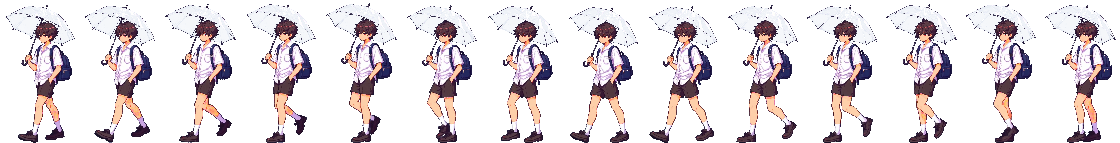
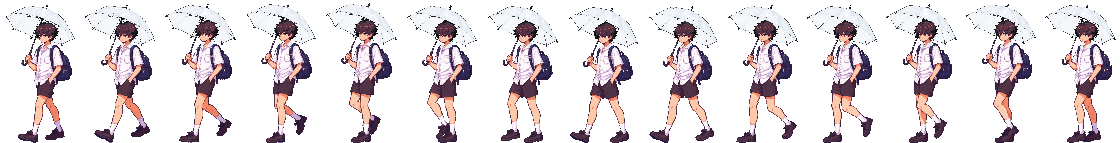
Umbrella sprites: every material matched, not just skin
match_materials replaces match_skin: the reference's colours are split into
10 groups, each with a dark-to-light ramp; a pixel belongs softly to nearby
groups and takes the ramp colour at its brightness rank, so shirt, shading,
bag, shorts and skin all match between standing and walking without
blotches. The umbrella is left out of it (plastic colour; solid ribs, rim and
shaft above the collar become cool grey by their brightness).

Claude-Session: https://claude.ai/code/session_011NAKRUA9btL4iodwTEM3Dh

diff --git a/tools/import_char_video.py b/tools/import_char_video.py
@@ -64,15 +64,15 @@ def unmix(rgb, mask, bg, plastic, rows):
     v = rgb - bg
     a = (v @ u) / (u @ u)
     resid = np.sqrt(((v - a[..., None] * u) ** 2).sum(2))
-    glass = mask & (resid < 45) & (a > 0.06) & (a < 0.92)   # between the background and the plastic
-                                                             # (darker than the background = hair, not plastic)
-    glass[rows:] = False
+    prop = mask & (resid < 45) & (a > 0.06)       # between the background and the plastic
+    prop[rows:] = False                           # (darker than the background = hair, not plastic)
+    glass = prop & (a < 0.92)                     # see-through; the rest of the prop: solid ribs, rim
     a = np.clip(a, 0.15, 1.0)
     # one even colour for the plastic (the unmixed colours wander a little); its shape
     # and the brighter ribs and edges are carried by the alpha
-    out = np.where(glass[..., None], plastic, rgb)
+    out = np.where(prop[..., None], plastic, rgb)
     alpha = np.where(glass, a * 255, np.where(mask, 255.0, 0.0))
-    return out, alpha
+    return out, alpha, prop
 
 
 def materials(px):
@@ -91,34 +91,66 @@ def materials(px):
     }
 
 
-def skin_weight(px):
-    """0..1: how much a colour is skin or skin in shadow (warm orange, fairly saturated)."""
-    rgb = px / 255.0
-    mx, mn = rgb.max(-1), rgb.min(-1)
-    sat = (mx - mn) / np.maximum(mx, 1e-6)
-    r, g, b = rgb[..., 0], rgb[..., 1], rgb[..., 2]
-    warm = np.clip((r - g) / np.maximum(mx - mn, 1e-6), 0, 1) * (r >= b)    # hue near orange
-    return (np.clip((sat - 0.2) / 0.15, 0, 1) * np.clip((mx - 0.35) / 0.15, 0, 1)
-            * np.clip(warm * 1.5 - 0.2, 0, 1) * (g >= b - 0.02))
+def kmeans_rgb(px, k, iters=30, seed=3):
+    rng = np.random.default_rng(seed)
+    c = px[rng.choice(len(px), k, replace=False)].astype(float)
+    for _ in range(iters):
+        lab = ((px[:, None] - c[None]) ** 2).sum(2).argmin(1)
+        for j in range(k):
+            if (lab == j).any():
+                c[j] = px[lab == j].mean(0)
+    return c
 
 
-def match_skin(frames, solid, ref_px):
-    """Skin and its shading: per channel, map the frames' spread of skin tones (light to
-    shadow) onto the reference's with a smooth curve (matched percentiles), blended in by
-    how skin-like each pixel is, so nothing changes abruptly at the edge of the skin."""
+def match_materials(frames, solid, ref_px, k=10, sigma=28.0):
+    """Light-to-shadow range of every material, matched to the reference sprite.
+
+    The reference's colours are split into k groups (skin light/shadow, hair, shirt,
+    shirt shading, bag, shorts...). Each group gets a ramp: its colour as a function of
+    how bright a pixel is within the group (dark end -> light end). A frame pixel belongs
+    softly to the groups near its colour; within each it takes the ramp colour at the
+    same brightness rank its frame group has. The result depends smoothly on the input
+    colour (similar colours stay similar), so the shading keeps its shape: no blotches."""
+    lum_w = np.array((0.299, 0.587, 0.114))
+    centres = kmeans_rgb(ref_px, k)
+    ref_lab = ((ref_px[:, None] - centres[None]) ** 2).sum(2).argmin(1)
+    q = np.linspace(0, 1, 33)
+    ramps = []
+    for j in range(k):
+        v = ref_px[ref_lab == j]
+        order = np.argsort(v @ lum_w)
+        idx = np.clip((q * (len(v) - 1)).round().astype(int), 0, len(v) - 1)
+        ramp = v[order][idx].astype(float)
+        ramp = np.array([ramp[max(0, i - 2):i + 3].mean(0) for i in range(len(q))])   # smooth
+        ramps.append(ramp)
     src = np.concatenate([f[..., :3][m] for f, m in zip(frames, solid)]).astype(float)
-    ws, wr = skin_weight(src) > 0.6, skin_weight(ref_px) > 0.6
-    q = np.linspace(2, 98, 25)
-    curves = [(np.percentile(src[ws, c], q), np.percentile(ref_px[wr, c], q)) for c in range(3)]
-    out = []
+    src_lab = ((src[:, None] - centres[None]) ** 2).sum(2).argmin(1)
+    cdfs = []
+    for j in range(k):
+        l = np.sort(src[src_lab == j] @ lum_w) if (src_lab == j).sum() >= 10 else None
+        cdfs.append(l)
+
+    def remap(px):
+        d2 = ((px[:, None] - centres[None]) ** 2).sum(2)
+        w = np.exp(-(d2 - d2.min(1, keepdims=True)) / (2 * sigma ** 2))
+        w /= w.sum(1, keepdims=True)
+        lum = px @ lum_w
+        out = np.zeros_like(px)
+        for j in range(k):
+            if cdfs[j] is None:
+                out += w[:, j:j + 1] * px
+                continue
+            rank = np.searchsorted(cdfs[j], lum) / len(cdfs[j])
+            col = np.stack([np.interp(rank, q, ramps[j][:, c]) for c in range(3)], 1)
+            out += w[:, j:j + 1] * col
+        return out
+
+    result = []
     for f, m in zip(frames, solid):
         g = f.copy()
-        px = g[..., :3][m].astype(float)
-        w = skin_weight(px)[:, None]
-        mapped = np.stack([np.interp(px[:, c], *curves[c]) for c in range(3)], 1)
-        g[..., :3][m] = np.clip(px * (1 - w) + mapped * w, 0, 255).round()
-        out.append(g)
-    return out
+        g[..., :3][m] = np.clip(remap(g[..., :3][m].astype(float)), 0, 255).round()
+        result.append(g)
+    return result
 
 
 def colour_transfer(frames, solid, ref_px):
@@ -209,12 +241,13 @@ def main():
             masks[k] = apply_map(masks[k], sy, sx, bad, False)
 
     green_screen = bg[1] > bg[0] + 60 and bg[1] > bg[2] + 60
-    alphas = []
+    alphas, props = [], []
     for k in range(len(frames)):
         if args.glass:
-            frames[k], al = unmix(frames[k], masks[k], bg, plastic, collars[k])
+            frames[k], al, pr = unmix(frames[k], masks[k], bg, plastic, collars[k])
         else:
-            al = masks[k] * 255.0
+            al, pr = masks[k] * 255.0, np.zeros(masks[k].shape, bool)
+        props.append(pr)
         if green_screen:
             # pull leftover green out of the solid edge pixels (after the unmix, which needs
             # it; the tone match would otherwise push greenish edges to pink)
@@ -230,9 +263,10 @@ def main():
     out_w, out_h = round(cw * scale / 2) * 2, round(ch * scale)
     sy, sx = ch / out_h, cw / out_w
     q = max(1, int(min(sx, sy) * 0.25))
-    result, glassy = [], []
-    for rgb, mk, al in zip(frames, masks, alphas):
+    result, glassy, propy = [], [], []
+    for rgb, mk, al, pr in zip(frames, masks, alphas, props):
         out = np.zeros((out_h, out_w, 4))
+        prop_cell = np.zeros((out_h, out_w), bool)
         for j in range(out_h):
             cy = min(ch - 1, int((j + 0.5) * sy))
             if j == out_h - 1:
@@ -245,14 +279,31 @@ def main():
                 if m.mean() >= 0.5:
                     out[j, i, :3] = np.median(rgb[ys_, xs_][m], axis=0)
                     out[j, i, 3] = np.median(al[ys_, xs_][m])
+                    prop_cell[j, i] = pr[ys_, xs_][m].mean() >= 0.5
         result.append(out.round().astype(np.uint8))
         glassy.append((out[..., 3] > 0) & (out[..., 3] < 250))
+        propy.append(prop_cell | glassy[-1])
     if args.match:
         path, n = args.match[0], int(args.match[1])
         sheet_ref = np.asarray(Image.open(path).convert("RGBA"))
         ref_px = sheet_ref[..., :3][sheet_ref[..., 3] >= 250].astype(float)
-        solid = [(f[..., 3] >= 250) for f in result]      # not the clear prop: it keeps its colour
-        final = match_skin(colour_transfer(result, solid, ref_px), solid, ref_px)
+        # the umbrella keeps its own colour: the unmixed plastic, and above the collar
+        # everything that is neither hair nor skin (ribs, rim, shaft)
+        solid = []
+        for f, pr, c in zip(result, propy, collars):
+            r, g, b = (f[..., i].astype(int) for i in range(3))
+            hair = (np.maximum(np.maximum(r, g), b) < 160) & (r > b + 12) & (r >= g)
+            skin = (r > 150) & (r - b > 45) & (r > g + 15)
+            above = np.zeros(pr.shape, bool)
+            above[:int(round(c * scale)) - 4] = True      # (the shirt collar's points rise a few px)
+            ribs = (f[..., 3] >= 250) & ~pr & above & ~hair & ~skin
+            # solid umbrella parts (ribs, rim, shaft): their own brightness in the plastic's
+            # cool grey (on a green screen they pick up teal/lavender casts)
+            lum = f[..., :3].astype(float) @ np.array((0.299, 0.587, 0.114))
+            grey = np.clip(plastic[None, None] * (lum / (plastic @ np.array((0.299, 0.587, 0.114))))[..., None], 0, 255)
+            f[..., :3][ribs] = grey[ribs].round()
+            solid.append((f[..., 3] >= 250) & ~pr & ~ribs)
+        final = match_materials(colour_transfer(result, solid, ref_px), solid, ref_px)
     else:
         matched = colour_match([np.where(gl[..., None], 0, f) for f, gl in zip(result, glassy)], ref)
         final = []

diff --git a/README.md b/README.md
@@ -270,8 +270,10 @@ python3 tools/steady_walk_head.py assets/characters/hero_umbrella_walk.png --fra
 (ผมสีเข้มกว่าพื้นหลัง ไม่นับเป็นร่ม)
 `--match`: สีเอามาจากภาพยืนในเกม (`hero_idle_video.png`) โดยจับคู่ตามวัสดุ (ผิว ผม เสื้อ กระเป๋า เงาเข้ม) แล้วหาฟังก์ชันสีเรียบตัวเดียว
 ใช้ได้ทุกท่า (วางทับภาพนิ่งแบบเดิมใช้ไม่ได้กับท่าเดิน: ได้สีผิวซีดกว่าท่ายืน) ท่ายืนกับท่าเดินถือร่มจึงสีเดียวกันและเท่าพระเอกปกติ
-แล้วผิวกับเงาบนผิวอีกขั้น (`match_skin`): ไล่ระดับผิวจากสว่างถึงเงาของภาพให้ตรงกับของภาพอ้างอิงทีละช่องสี (เส้นโค้งเรียบจากเปอร์เซ็นไทล์)
-ผสมตามว่าพิกเซลเป็นผิวแค่ไหน (ไม่มีรอยตรงขอบผิว) เพราะวิดีโอท่าเดินมีเงาส้มบนผิวมากกว่า ฟังก์ชันเดียวทั้งตัวแก้ไม่ได้
+แล้วทุกวัสดุอีกขั้น (`match_materials`): แบ่งสีของภาพอ้างอิงเป็น 10 กลุ่ม (ผิวสว่าง/เงา ผม เสื้อ เงาเสื้อ กระเป๋า กางเกง...)
+แต่ละกลุ่มมี "ไล่ระดับ" จากมืดถึงสว่าง พิกเซลของภาพเป็นสมาชิกกลุ่มใกล้ๆ แบบนุ่ม (ตามระยะสี) แล้วได้สีจากไล่ระดับที่ลำดับความสว่างเดียวกัน
+สีคล้ายกันได้ผลคล้ายกัน จึงไม่เกิดเงาด่าง: ท่ายืนกับท่าเดินถือร่มจึงตรงกันทั้งผิว เงา เสื้อ กางเกง กระเป๋า (ไม่ใช่แค่ผิว)
+ร่มไม่ถูกเปลี่ยนสี: ส่วนใส = สีพลาสติก, เหนือปกเสื้อ (เผื่อปกเสื้อ 4px) อะไรที่ไม่ใช่ผมหรือผิว (ซี่ร่ม ขอบ ด้าม) = เทาเย็นตามความสว่างของมัน
 ขอบล่างสุดของวิดีโอมีจุดรบกวนจากการบีบอัด: ไม่นับแถว/คอลัมน์ขอบภาพ และแถวพื้นต้องมีพิกเซลพอ (ไม่งั้นบางเฟรมเลื่อนตัวลอยขึ้นลง 4px)
 `--head-scale 0.92`: วัดในภาพเกมแล้วหัวในวิดีโอถือร่มสูงกว่าตัวปกติ 25 vs 23px (~9%) จึงย่อทุกอย่างเหนือปกเสื้อ (หัว + ร่ม)
 รอบคอทีละเฟรม แบบ `fix_head_size.py` (ค่อยๆ เริ่มย่อ ไม่มีรอยต่อ) หลังย่อ: หัวสูง 24 vs 23, ผมกว้าง 19 vs 21 (ทรงผมในวิดีโอฟูน้อยกว่า)
